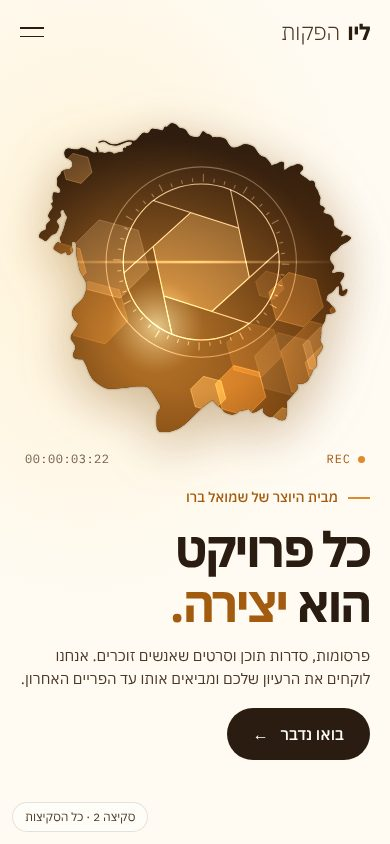
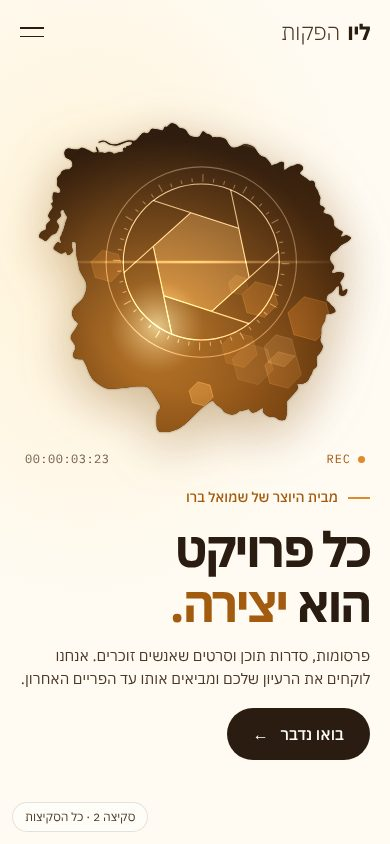
Sketch 2: keep the head inside its column on desktop, more air between image and headline, calmer lens lights
Claude-Session: https://claude.ai/code/session_01WVQVaCY4fGJ7k5v4v453FP

Changed region(s): [[0.4923, 0.3081, 0.8615, 0.5237], [0.1231, 0.2464, 0.4, 0.4313], [0.1538, 0.1848, 0.2462, 0.2156]]

diff --git a/sketches/2.html b/sketches/2.html
@@ -332,6 +332,14 @@ body.locked{overflow:hidden}
 }
 @keyframes nudge{50%{transform:translateX(-5px)}}
 @media(prefers-reduced-motion:reduce){.word .ico{transition:none}.wnav .arr,.slate .rec b{animation:none}}
+
+/* ---------- desktop composition: the head stays inside its column, with air between image and type ---------- */
+@media(min-width:900px){
+  .hero .wrap{max-width:1440px;grid-template-columns:minmax(0,1fr) minmax(0,1fr);column-gap:clamp(48px,6vw,120px)}
+  .screen{justify-self:center;width:min(100%,66vh);margin-inline-end:0}
+  .slate{justify-self:center}
+  .hero-sub{max-width:30em}
+}
 </style>
 </head>
 <body>
@@ -607,7 +615,7 @@ body.locked{overflow:hidden}
     const cx = cv.getContext('2d'); let W = 0, H = 0;
     const rnd = (i, k) => { const x = Math.sin(i * 127.1 + k * 311.7) * 43758.5453; return x - Math.floor(x); };
     const COL = ['248,212,138', '222,138,46', '255,236,196', '236,160,70', '250,190,110'];
-    const B = Array.from({ length: 17 }, (_, i) => ({ x: rnd(i, 1), y: rnd(i, 2), r: .05 + rnd(i, 3) * .1, a: .1 + rnd(i, 4) * .2, sp: .25 + rnd(i, 5) * .5, ph: rnd(i, 6) * 6.28, c: COL[i % COL.length] }));
+    const B = Array.from({ length: 11 }, (_, i) => ({ x: .18 + rnd(i, 1) * .64, y: rnd(i, 2), r: .035 + rnd(i, 3) * .06, a: .07 + rnd(i, 4) * .13, sp: .25 + rnd(i, 5) * .5, ph: rnd(i, 6) * 6.28, c: COL[i % COL.length] }));
     const hex = (x, y, r, rot) => { cx.beginPath(); for (let i = 0; i < 6; i++) { const a = rot + i * Math.PI / 3; cx[i ? 'lineTo' : 'moveTo'](x + Math.cos(a) * r, y + Math.sin(a) * r); } cx.closePath(); };
     const size = () => { const d = Math.min(devicePixelRatio || 1, 2); W = cv.width = Math.round(cv.clientWidth * d); H = cv.height = Math.round(cv.clientHeight * d); };
     const draw = t => {
